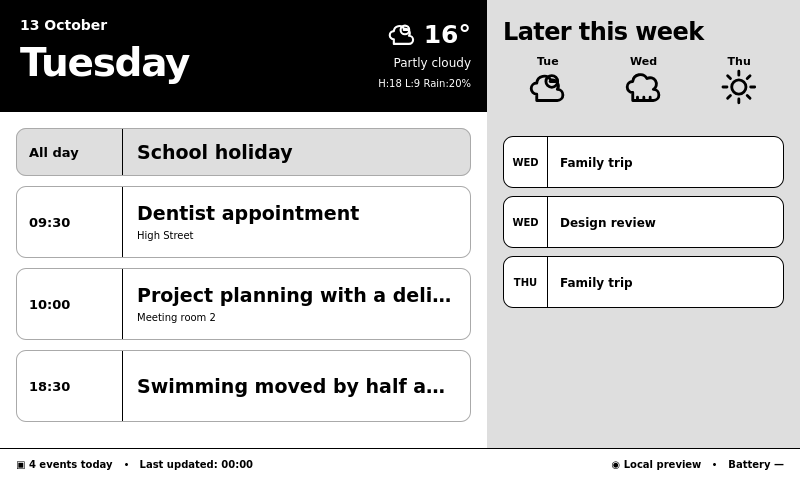
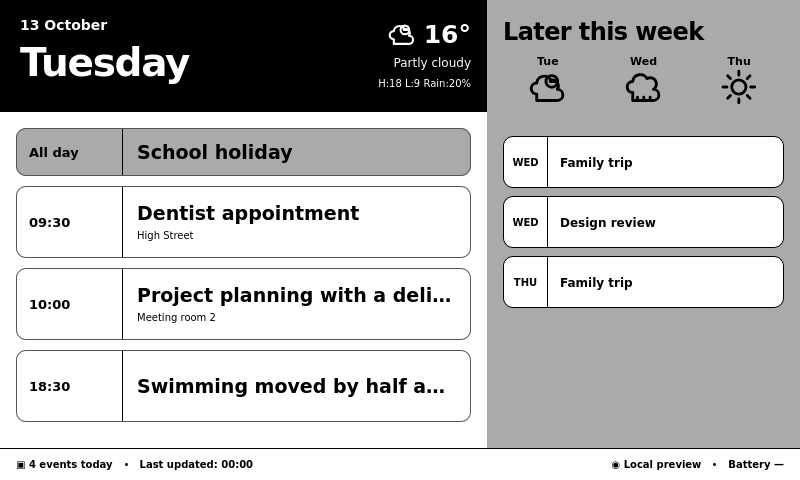
Use the four display shades in the calendar design

diff --git a/dev_preview/browser_test.rb b/dev_preview/browser_test.rb
@@ -44,7 +44,7 @@ begin
   assert(driver.find_elements(css: '.pc-forecast-icon svg').length == 3, 'Forecast icons missing')
   sizes = driver.execute_script('return [document.querySelector(".pc").getBoundingClientRect().width, document.querySelector(".pc").getBoundingClientRect().height, window.innerWidth, window.innerHeight]')
   assert(sizes == [800, 480, 800, 480], "Wrong canvas: #{sizes}")
-  assert(driver.execute_script('return getComputedStyle(document.querySelector(".pc-all-day")).backgroundColor') == 'rgb(222, 222, 222)', 'All-day grey styling failed')
+  assert(driver.execute_script('return getComputedStyle(document.querySelector(".pc-all-day")).backgroundColor') == 'rgb(170, 170, 170)', 'All-day grey styling failed')
   assert(driver.execute_script('return getComputedStyle(document.querySelector(".pc-event-inner")).justifyContent') == 'center', 'Event centring failed')
   # All browser subresources must be local, including fonts.
   resources = driver.execute_script('return performance.getEntriesByType("resource").map(e => e.name)')

diff --git a/docs/DESIGN_PORT.md b/docs/DESIGN_PORT.md
@@ -12,6 +12,8 @@ Reference implementation: [original ESP32 renderer](https://github.com/simondoes
 - Footer with today count, last-rendered time, connection label and optional battery reading.
 - Original Manrope-like typography, with local/system fallbacks; no font files are copied or redistributed.
 
+The Liquid palette uses exactly four shades: black (`#000`), dark grey (`#555`) for Today card outlines, light grey (`#aaa`) for all-day cards and the sidebar, and white (`#fff`) for timed cards and the main panel. These shades survive the local preview's four-level quantization; the previous `#dedede` backgrounds mapped to white.
+
 ## What is not identical yet
 
 The C++ firmware has true native all-day flags, weather data and battery/Wi-Fi hardware state. Terminus's **native ICS parser does not expose a reliable normalized all-day flag** in its current event hashes; default ICS entries therefore render as timed entries, including midnight all-day dates. The all-day styling activates only if a future normalizer provides `all_day: true`.
